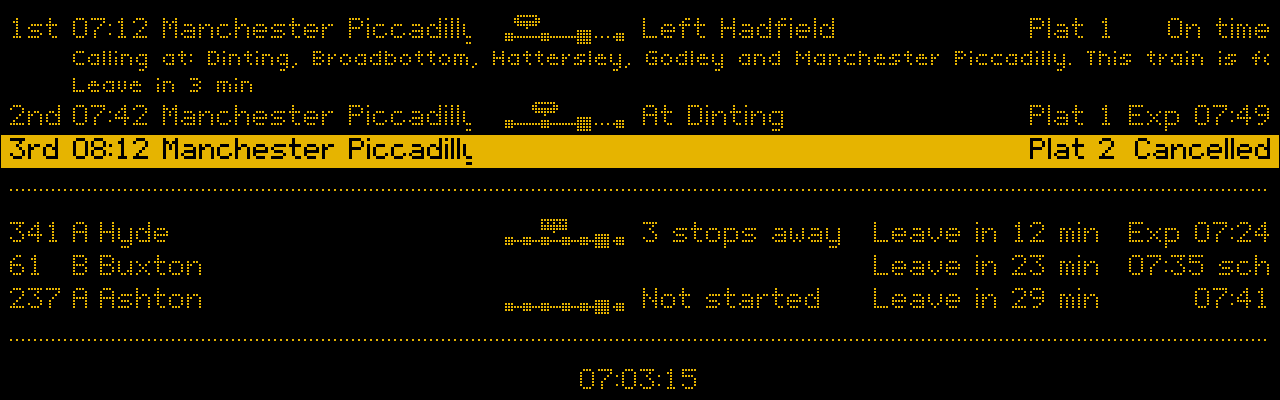
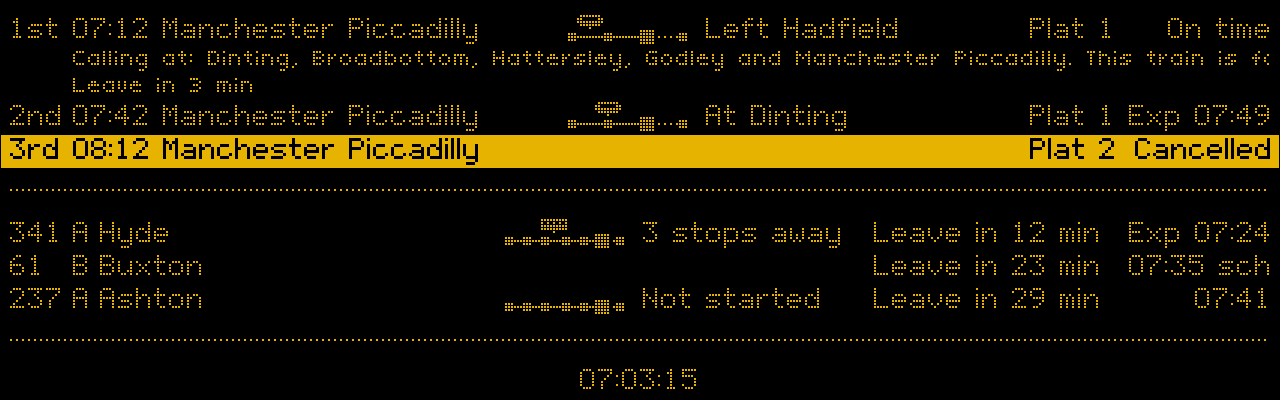
docs(board): say where the little lines line up now, and redraw the 7.9" screen pictures
reading-the-board.md and the CHANGELOG say the strips line up only in the
plain, TFT and split-flap looks on the bar screen, and no longer warn that
Manchester Piccadilly scrolls on the 7.9" screen; the split-flap look there
keeps 19 letters, not 15. The comments in panel.py and splitflap.py give
the rooms as measured with each section's strips against its own columns.
Only the 7.9" screen's pictures with rows change.

Changed region(s): [[0.4062, 0.27, 0.6562, 0.33], [0.4062, 0.03, 0.625, 0.12], [0.6562, 0.06, 0.6875, 0.09]]

diff --git a/src/twobells/board/panel.py b/src/twobells/board/panel.py
@@ -14,10 +14,10 @@ PLATFORM_COLUMN_MIN_WIDTH = 300
 
 # A screen at least this wide, in the same units, shows where each train or
 # bus is: a little line of stops after the destination, then the words. From
-# 420 a sign destination still keeps nearly 100 dots, 18 letters ("Manchester
-# Piccadilly" is 105), beside them ("3 stops away"), the platform, a bus's
-# "Leave in 12 min" and the status; at 400 a train's would be down to 78. The
-# 7.9" screen's 426 is in; the 10.85" e-paper's 340 is not, and e-paper never
+# 420 a sign row keeps "Manchester Piccadilly" whole beside them ("3 stops
+# away"), the platform and the status, and a bus's destination about 120
+# dots, 22 letters, beside them, its "Leave in 12 min" and the status; at
+# 400 the bus's would be down to 99. The 7.9" screen's 426 is in; the 10.85" e-paper's 340 is not, and e-paper never
 # shows them anyway. A wider screen shares its spare room out by a ladder
 # (render.share_out) between the destination, a bus's stop names and the
 # where words.

diff --git a/src/twobells/board/splitflap.py b/src/twobells/board/splitflap.py
@@ -44,7 +44,7 @@ from .view import BoardView, Row, Section, Style
 # In pHAT pixels: tiles this far apart, with this much black between them,
 # this tall, and the letters on them this big. Tiles take more room than
 # Inter: the bar screen keeps "Manchester Piccadilly" whole, but before the
-# little lines the 7.9" screen has room for 15 letters, and longer scrolls.
+# little lines the 7.9" screen has room for 19 letters, and longer scrolls.
 TILE_PITCH = 7
 TILE_GAP = 1
 TILE_HEIGHT = 12

diff --git a/docs/reading-the-board.md b/docs/reading-the-board.md
@@ -111,7 +111,7 @@ On an HDMI screen only: white letters on dark grey tiles, each split across the 
 
 - `Exp 07:49` and `Delayed` in amber letters, and `Cancelled` in black on amber tiles. A cancelled train isn't on a highlighted bar: its tiles say it.
 - When a row's time, destination, platform or status changes, its tiles flip through to the new letters, as a flap board's do, in half a second. When the first train goes and the rows move up, each row flips to its new departure. The clock and the title change at once.
-- On the 7.9" screen a destination keeps 15 letters before the little line of where its train is; a longer one, such as Manchester Piccadilly, scrolls, as a long notice does. The 11.3" bar screen keeps it whole.
+- On the 7.9" screen a destination keeps 19 letters before the little line of where its train is; a longer one, such as Manchester Piccadilly, scrolls, as a long notice does. The 11.3" bar screen keeps it whole.
 - `! NOT UPDATING` in amber next to TRAINS or BUSES, a rain warning or disruption notice in place of the title, and everything else the [HDMI screen](#the-hdmi-screen) shows, as in the plain look.
 
 ![The split-flap look on the 11.3 inch bar screen](images/screen-bar-flap.png)
@@ -142,7 +142,7 @@ The screen can redraw every second, so it shows a bit more. **What to show** on 
 - **Platforms**, as on the bigger e-paper display.
 - **Calling at**, under the first train, as on a station's own screens: `Calling at: Dinting, Broadbottom, Hattersley, Godley and Manchester Piccadilly. This train is formed of 3 coaches.` It scrolls along its line (see below). **What to show**'s Everything has it and The usual doesn't, so tick **Calling at** if you want it. Stops the train no longer calls at are left out of the list and named after it (`Does not call at Hattersley.`), or alone when it no longer calls at any, the coaches are left unsaid when National Rail doesn't give them, a rail replacement bus says `This is a replacement bus.`, and a ferry `This is a ferry.` A cancelled train has no line. In the station board look it starts under the train's time, above `Leave in 3 min`, in smaller dots (capitals 5 dots tall, not 7), as the leave line under a train is on the 7.9" screen; in the plain, TFT and split-flap looks, under the destination, in smaller type. On the bar screen the station board look leaves out the dotted rule over the bottom line to keep its third bus. To get the calling points, a screen asks National Rail for the board with them, the same request with more in its answer. E-paper doesn't show it: it can't scroll.
 - **Where each train or bus is**, after its destination: a little line of its stops, as on the dashboard, then in words (`At Dinting`, `3 stops away`, or `On its way, 6 min` and then `Bus in, waiting` for a bus coming in to work a departure from your stop, `Waiting to start` at the same journey's later stops while it is in there). Trains say where they are only with a [Service Details key](keys.md#rail-data-marketplace-service-details); without one, only buses do. The line is solid up to your stop, which is the bigger one, and dotted after it; the train or bus is drawn over the line where it is, and not at all while the board doesn't know. The words say it all; the line only backs them up. A row the board knows nothing for, like a cancelled train or a bus with no live position, leaves the space blank.
-- **How a line's room is shared:** the words always have room for `3 stops away`; then the destination for a name like `Manchester Piccadilly` (a bus's `Ashton-under-Lyne`); then, on the bar screen, a bus's stop name; then the destination for one like `Heathrow Terminals 2 & 3`, the words for one like `Left Manchester Oxford Road`, and the destination whatever is left. Anything longer than its room scrolls. The little lines sit in one column down the board, except in the station board look on the bar screen, where the trains' and the buses' each sit against their own section's columns. On the 7.9" screen the words have little more than `3 stops away`, so longer ones scroll; in the station board and TFT looks there, lined up with the buses' lines beside their leave times, a destination as long as Manchester Piccadilly scrolls too.
+- **How a line's room is shared:** the words always have room for `3 stops away`; then the destination for a name like `Manchester Piccadilly` (a bus's `Ashton-under-Lyne`); then, on the bar screen, a bus's stop name; then the destination for one like `Heathrow Terminals 2 & 3`, the words for one like `Left Manchester Oxford Road`, and the destination whatever is left. Anything longer than its room scrolls. In the plain, TFT and split-flap looks on the bar screen the little lines sit in one column down the board; on the 7.9" screen, and in the station board look on either screen, the trains' and the buses' each sit against their own section's columns, so the buses' leave times never cost a train its destination. On the 7.9" screen the words have little more than `3 stops away`, so longer ones scroll.
 - In the station board look, a rain warning or disruption notice sits at the bottom left and the clock moves to the right. With both, they sit side by side: the notice on the left, the rain warning beside the clock. A dotted rule sets the bottom line off from the buses, as between trains and buses.
 - **The last bus:** in the hour before the day's last bus from your stops goes, `Last bus 23:05` sits on the bottom line the same way, from the bus timetable. A disruption notice or a rain warning takes its place while there is one. In the plain, TFT and split-flap looks it takes the title's place in the top bar, as they do. E-paper doesn't show it.
 - **Long text scrolls** rather than being cut short with `…`: a destination, the calling-at line, where a train or bus is, a disruption notice or a rain warning too long for its space shows from its start for 2 seconds, moves slowly left (about 3 letters a second, a dot at a time in the station board look) until its end is in view, waits 2 seconds, then starts again. Each stays inside its own space, and text that fits never moves. E-paper can't animate, so it still cuts long text short; so does the screen with **Scrolling text** off on the [General page](settings.md#general) of the settings (`scrolling = false`). The split-flap look's tiles still turn.

diff --git a/CHANGELOG.md b/CHANGELOG.md
@@ -7,7 +7,7 @@ Notable changes to this project. The format follows [Keep a Changelog](https://k
 ### Changed
 
 - On an HDMI screen, each train or bus line shows the little line of its stops straight after the destination, then where it is in words (`3 stops away`, `At Dinting`), then its platform, leave time and status. The words used to come first. The room on a line is shared out in a fixed order: the words get room for `3 stops away`, the destination for `Manchester Piccadilly` (a bus's `Ashton-under-Lyne`), a bus's stop name on the bar screen, then the destination and the words more, so longer stop names and where words fit before they scroll. The bar screen's stop names are no longer held to about 16 letters.
-- The little lines sit in one column down the board in the plain, TFT and split-flap looks and in the station board look on the 7.9" screen. In the station board look on the bar screen, the trains' and the buses' each sit against their own section's columns.
+- The little lines sit in one column down the board in the plain, TFT and split-flap looks on the bar screen. On the 7.9" screen, and in the station board look on either screen, the trains' and the buses' each sit against their own section's columns.
 - In the station board look on an HDMI screen, the leave times stand twice as far from the status, and the where words twice as far from the next column, so the two don't read as one phrase. The bus route column is as wide as the routes shown, 3 to 4 characters, so `201A` and `N199` no longer scroll. E-paper is unchanged.
 
 ## [0.5.1] - 2026-10-21
